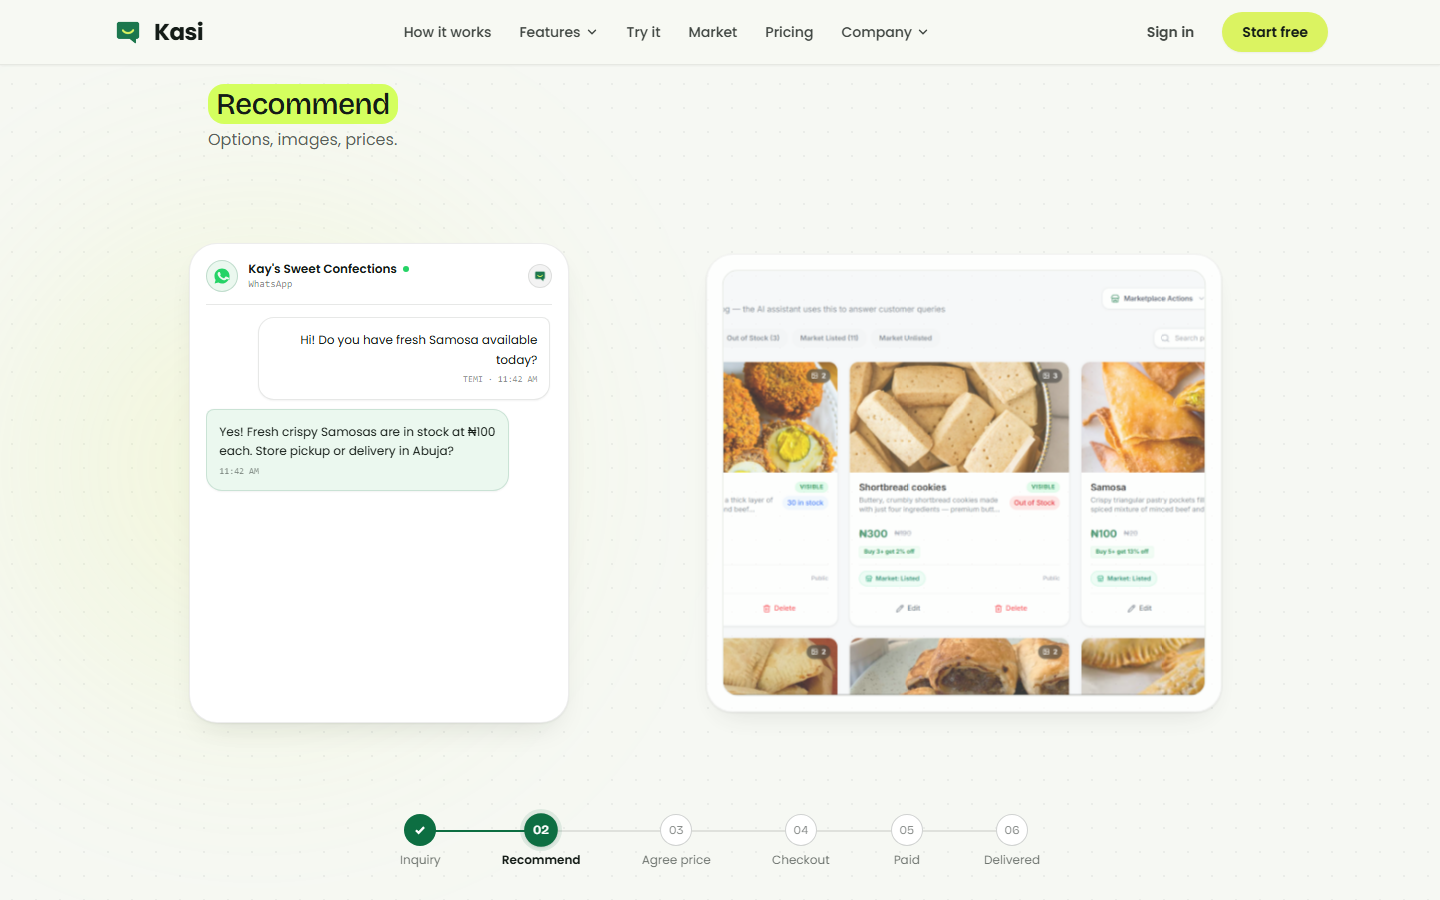
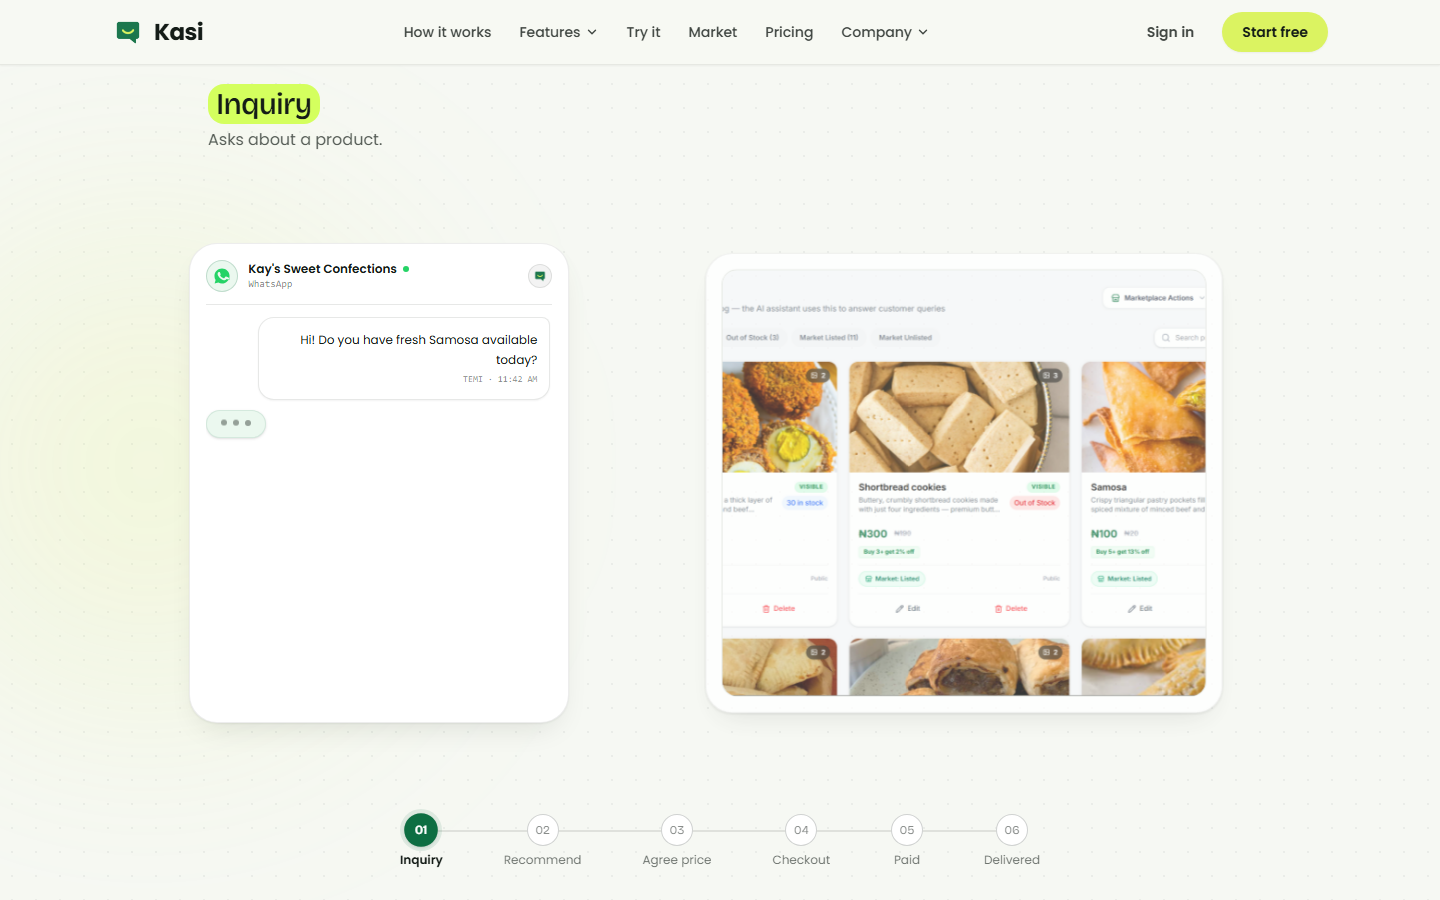
fix(ux): eliminate scroll hijacking, expand journey runway, and relax pacing

diff --git a/src/modules/Landing/components/journey/JourneyScene.jsx b/src/modules/Landing/components/journey/JourneyScene.jsx
@@ -1,5 +1,5 @@
 import React, { useState, useEffect, useId } from 'react';
-import { motion, useTransform, useMotionValueEvent } from 'framer-motion';
+import { motion, useTransform, useMotionValueEvent, AnimatePresence } from 'framer-motion';
 import { useJourneyProgress } from './useJourneyProgress';
 import { LANDING_STAGES, FULL_STAGES } from './stages';
 import { PhoneChat } from './PhoneChat';
@@ -28,10 +28,10 @@ export const JourneyScene = ({ variant = 'landing' }) => {
     prefersReducedMotion,
   });
 
-  // Track active stage index (only re-renders React when stage boundary crosses)
+  // Track active stage index (driven by the smoothed spring progress for fluid harmony)
   const [activeStageIndex, setActiveStageIndex] = useState(0);
 
-  useMotionValueEvent(rawProgress, 'change', (latest) => {
+  useMotionValueEvent(progress, 'change', (latest) => {
     const stageIdx = stages.findIndex(
       (s) => latest >= s.range[0] && latest <= s.range[1]
     );
@@ -46,23 +46,23 @@ export const JourneyScene = ({ variant = 'landing' }) => {
   const phoneScale = useTransform(
     progress,
     [0, 0.45, 0.55, 0.8, 1],
-    [1, 1, 0.98, 0.94, 0.92]
+    [1, 1, 0.98, 0.95, 0.93]
   );
   const phoneDim = useTransform(
     progress,
     [0, 0.5, 0.75, 1],
-    [1, 1, 0.85, 0.75]
+    [1, 1, 0.88, 0.8]
   );
 
   const vendorScale = useTransform(
     progress,
     [0, 0.35, 0.65, 0.85, 1],
-    [0.94, 0.96, 1, 1.02, 1]
+    [0.95, 0.97, 1, 1.01, 1]
   );
   const vendorDim = useTransform(
     progress,
     [0, 0.3, 0.6, 1],
-    [0.65, 0.8, 1, 1]
+    [0.72, 0.85, 1, 1]
   );
 
   // Soft lime ambient tint blob that tracks active stage
@@ -84,7 +84,7 @@ export const JourneyScene = ({ variant = 'landing' }) => {
     <>
       <section
         ref={containerRef}
-        style={{ height: isFull ? '460vh' : '330vh' }}
+        style={{ height: isFull ? '780vh' : '540vh' }}
         className="relative w-full bg-[#F6F8F3] text-[#141C17]"
         aria-label={isFull ? 'Interactive Order Journey' : 'Kasi How It Works'}
       >
@@ -129,19 +129,29 @@ export const JourneyScene = ({ variant = 'landing' }) => {
           )}
 
           {/* Top Bar: Active Step Title with lime marker highlight + Spec Description */}
-          <header className="relative z-10 max-w-5xl mx-auto w-full flex flex-col items-center sm:items-start pt-1 text-center sm:text-left">
-            <h3 className="font-display text-2xl md:text-3xl font-medium text-[#141C17] tracking-tight">
-              <span className="bg-[#D4FF5E] px-2 py-0.5 rounded-md inline-block mr-2">
-                {activeStage.title}
-              </span>
-            </h3>
-            <p className="text-[#141C17]/70 text-sm md:text-base font-normal mt-1 max-w-md">
-              {activeStage.desc}
-            </p>
+          <header className="relative z-20 max-w-5xl mx-auto w-full flex flex-col items-center sm:items-start pt-1 text-center sm:text-left shrink-0">
+            <AnimatePresence mode="wait">
+              <motion.div
+                key={activeStage.id}
+                initial={{ opacity: 0, y: 6 }}
+                animate={{ opacity: 1, y: 0 }}
+                exit={{ opacity: 0, y: -6 }}
+                transition={{ duration: 0.3, ease: 'easeOut' }}
+              >
+                <h3 className="font-display text-2xl md:text-3xl font-medium text-[#141C17] tracking-tight">
+                  <span className="bg-[#D4FF5E] px-2 py-0.5 rounded-md inline-block mr-2">
+                    {activeStage.title}
+                  </span>
+                </h3>
+                <p className="text-[#141C17]/70 text-sm md:text-base font-normal mt-1 max-w-md">
+                  {activeStage.desc}
+                </p>
+              </motion.div>
+            </AnimatePresence>
           </header>
 
           {/* Center Stage: Split Screen (Customer Phone on Left, Vendor Dashboard on Right) */}
-          <main className="relative z-10 w-full max-w-6xl mx-auto flex-1 flex items-center justify-center my-auto min-h-0">
+          <main className="relative z-10 w-full max-w-6xl mx-auto flex-1 flex items-center justify-center my-auto min-h-0 overflow-visible py-2">
             {/* Desktop Dual-Surface Layout */}
             <div className="hidden lg:grid grid-cols-12 gap-8 items-center w-full px-2">
               {/* Left: Customer WhatsApp Phone */}
@@ -169,7 +179,7 @@ export const JourneyScene = ({ variant = 'landing' }) => {
               </motion.div>
             </div>
 
-            {/* Mobile Layout (One Surface at a time, perfectly centered at 390px) */}
+            {/* Mobile Layout (One Surface at a time, perfectly centered at 380px) */}
             <div className="lg:hidden w-full max-w-[380px] mx-auto flex justify-center">
               {activeStage.stepNumber <= (isFull ? 3 : 2) ? (
                 <PhoneChat
@@ -188,7 +198,7 @@ export const JourneyScene = ({ variant = 'landing' }) => {
           </main>
 
           {/* Bottom Rail: Slim progress rail with display font numbered nodes */}
-          <footer className="relative z-10 max-w-3xl mx-auto w-full flex flex-col items-center pb-2">
+          <footer className="relative z-20 max-w-3xl mx-auto w-full flex flex-col items-center pb-2 shrink-0">
             <StageRail
               stages={stages}
               activeStageIndex={activeStageIndex}

diff --git a/src/modules/Landing/components/journey/PhoneChat.jsx b/src/modules/Landing/components/journey/PhoneChat.jsx
@@ -12,10 +12,16 @@ export const PhoneChat = ({
   className = '',
 }) => {
   const script = JOURNEY_SCRIPT;
-  const messagesEndRef = useRef(null);
+  const chatScrollRef = useRef(null);
 
+  // Internal scroll only - NEVER call window scrollIntoView
   useEffect(() => {
-    messagesEndRef.current?.scrollIntoView({ behavior: 'smooth' });
+    if (chatScrollRef.current) {
+      chatScrollRef.current.scrollTo({
+        top: chatScrollRef.current.scrollHeight,
+        behavior: 'smooth',
+      });
+    }
   }, [stageNumber]);
 
   return (
@@ -54,7 +60,10 @@ export const PhoneChat = ({
       </div>
 
       {/* Message Stream */}
-      <div className="flex-1 py-3 space-y-2.5 overflow-y-auto min-h-0 flex flex-col justify-start pr-0.5">
+      <div
+        ref={chatScrollRef}
+        className="flex-1 py-3 space-y-2.5 overflow-y-auto min-h-0 flex flex-col justify-start pr-0.5"
+      >
         {/* Customer initial inquiry */}
         <div className="self-end max-w-[85%] bg-white border border-[#141C17]/10 rounded-2xl rounded-tr-sm p-3 text-right shadow-xs">
           <p className="text-xs text-[#141C17] leading-relaxed font-normal">
@@ -79,6 +88,7 @@ export const PhoneChat = ({
           <motion.div
             initial={{ opacity: 0, y: 10 }}
             animate={{ opacity: 1, y: 0 }}
+            transition={{ duration: 0.35, ease: [0.25, 0.1, 0.25, 1.0] }}
             className="self-start max-w-[88%] bg-[#EBF8EF] border border-[#0D6E42]/15 rounded-2xl rounded-tl-sm p-3 text-left shadow-xs"
           >
             <p className="text-xs text-[#141C17] leading-relaxed">
@@ -98,6 +108,7 @@ export const PhoneChat = ({
             <motion.div
               initial={{ opacity: 0, y: 10 }}
               animate={{ opacity: 1, y: 0 }}
+              transition={{ duration: 0.35, ease: [0.25, 0.1, 0.25, 1.0] }}
               className="self-end max-w-[85%] bg-white border border-[#141C17]/10 rounded-2xl rounded-tr-sm p-3 text-right shadow-xs"
             >
               <p className="text-xs text-[#141C17] leading-relaxed font-normal">
@@ -111,6 +122,7 @@ export const PhoneChat = ({
             <motion.div
               initial={{ opacity: 0, y: 10 }}
               animate={{ opacity: 1, y: 0 }}
+              transition={{ duration: 0.35, ease: [0.25, 0.1, 0.25, 1.0] }}
               className="self-start max-w-[88%] bg-[#EBF8EF] border border-[#0D6E42]/15 rounded-2xl rounded-tl-sm p-3 text-left shadow-xs space-y-2"
             >
               <p className="text-xs text-[#141C17] leading-relaxed">
@@ -129,6 +141,7 @@ export const PhoneChat = ({
           <motion.div
             initial={{ opacity: 0, y: 10 }}
             animate={{ opacity: 1, y: 0 }}
+            transition={{ duration: 0.35, ease: [0.25, 0.1, 0.25, 1.0] }}
             className="space-y-2"
           >
             <LocationPin
@@ -155,6 +168,7 @@ export const PhoneChat = ({
           <motion.div
             initial={{ opacity: 0, y: 10 }}
             animate={{ opacity: 1, y: 0 }}
+            transition={{ duration: 0.35, ease: [0.25, 0.1, 0.25, 1.0] }}
             className="self-start max-w-[88%] bg-[#EBF8EF] border border-[#0D6E42]/15 rounded-2xl rounded-tl-sm p-3 text-left shadow-xs"
           >
             <p className="text-xs text-[#141C17] leading-relaxed font-medium">
@@ -171,6 +185,7 @@ export const PhoneChat = ({
           <motion.div
             initial={{ opacity: 0, y: 10 }}
             animate={{ opacity: 1, y: 0 }}
+            transition={{ duration: 0.35, ease: [0.25, 0.1, 0.25, 1.0] }}
             className="space-y-2"
           >
             <div className="self-start max-w-[88%] bg-[#EBF8EF] border border-[#0D6E42]/15 rounded-2xl rounded-tl-sm p-3 text-left shadow-xs">
@@ -197,6 +212,7 @@ export const PhoneChat = ({
           <motion.div
             initial={{ opacity: 0, y: 10 }}
             animate={{ opacity: 1, y: 0 }}
+            transition={{ duration: 0.35, ease: [0.25, 0.1, 0.25, 1.0] }}
             className="self-start max-w-[88%] bg-[#EBF8EF] border border-[#0D6E42]/15 rounded-2xl rounded-tl-sm p-3 text-left shadow-xs"
           >
             <p className="text-xs text-[#0D6E42] font-semibold">
@@ -207,8 +223,6 @@ export const PhoneChat = ({
             </span>
           </motion.div>
         )}
-
-        <div ref={messagesEndRef} />
       </div>
     </div>
   );

diff --git a/src/modules/Landing/components/home/PillarsSection.jsx b/src/modules/Landing/components/home/PillarsSection.jsx
@@ -57,13 +57,29 @@ export function PillarsSection() {
               className="bg-white rounded-[22px] border border-[#141C17]/10 p-6 sm:p-7 shadow-xs flex flex-col justify-between overflow-hidden group hover:border-[#141C17]/20 transition-colors"
             >
               <div>
-                {/* Top: Designed Human/Vendor Placeholder */}
-                <div className="w-full h-44 rounded-xl overflow-hidden mb-6 border border-[#141C17]/8 shadow-inner">
-                  <DesignedPlaceholder
-                    aspect="16/9"
-                    caption={pillar.placeholderCaption}
-                    className="w-full h-full"
-                  />
+                {/* Top: Real Vendor Photo or Designed Placeholder */}
+                <div className="w-full h-44 rounded-xl overflow-hidden mb-6 border border-[#141C17]/8 shadow-inner bg-[#F6F8F3] relative">
+                  {pillar.photo ? (
+                    <img
+                      src={pillar.photo}
+                      alt={pillar.placeholderCaption || `${labelTitle} vendor in shop`}
+                      className="w-full h-full object-cover group-hover:scale-102 transition-transform duration-500"
+                      loading="lazy"
+                      onError={(e) => {
+                        e.currentTarget.style.display = 'none';
+                        if (e.currentTarget.nextElementSibling) {
+                          e.currentTarget.nextElementSibling.style.display = 'block';
+                        }
+                      }}
+                    />
+                  ) : null}
+                  <div style={{ display: pillar.photo ? 'none' : 'block' }} className="w-full h-full">
+                    <DesignedPlaceholder
+                      aspect="16/9"
+                      caption={pillar.placeholderCaption}
+                      className="w-full h-full"
+                    />
+                  </div>
                 </div>
 
                 {/* Phosphor duotone icon bare over offset lime disc */}

diff --git a/src/content/home.ts b/src/content/home.ts
@@ -40,6 +40,7 @@ export const HOME_COPY = {
         cta: "Sales Engine",
         href: "/features/sales-engine",
         screenshot: "/images/chats.png",
+        photo: "/images/One assistant. The whole shop/fashion vendor.jpeg",
         placeholderCaption: "Nigerian female entrepreneur packing fashion orders",
       },
       {
@@ -48,6 +49,7 @@ export const HOME_COPY = {
         cta: "Fulfilment",
         href: "/features/fulfilment",
         screenshot: "/images/fulfilment & orders.png",
+        photo: "/images/One assistant. The whole shop/retail vendor handing off.jpeg",
         placeholderCaption: "Retail vendor handing off orders for rider dispatch",
       },
       {
@@ -56,6 +58,7 @@ export const HOME_COPY = {
         cta: "Customers & Analytics",
         href: "/features/customers",
         screenshot: "/images/analytics.png",
+        photo: "/images/One assistant. The whole shop/store owner analytics.jpeg",
         placeholderCaption: "Store owner reviewing analytics on phone",
       },
     ],

diff --git a/src/modules/Landing/components/home/ChatStage.jsx b/src/modules/Landing/components/home/ChatStage.jsx
@@ -66,18 +66,18 @@ export function ChatStage({ activeChannel, onChannelChange, isPausedExternal = f
 
     const stepSchedule = [
       { step: 0, delay: 0 },
-      { step: 1, delay: 500 },
-      { step: 2, delay: 1200 },
-      { step: 3, delay: 1800 },
-      { step: 4, delay: 2400 },
-      { step: 5, delay: 3200 },
-      { step: 6, delay: 3800 },
-      { step: 7, delay: 4500 },
-      { step: 8, delay: 5100 },
-      { step: 9, delay: 5800 },
+      { step: 1, delay: 600 },
+      { step: 2, delay: 1500 },
+      { step: 3, delay: 3400 },
+      { step: 4, delay: 4600 },
+      { step: 5, delay: 7000 },
+      { step: 6, delay: 8000 },
+      { step: 7, delay: 9400 },
+      { step: 8, delay: 10400 },
+      { step: 9, delay: 11000 },
     ];
 
-    const cycleDuration = 7600;
+    const cycleDuration = 13000;
     let elapsed = 0;
     const intervalMs = 50;
 

diff --git a/src/modules/Landing/components/journey/useJourneyProgress.js b/src/modules/Landing/components/journey/useJourneyProgress.js
@@ -24,12 +24,12 @@ export function useJourneyProgress({ prefersReducedMotion = false } = {}) {
     }
   }, []);
 
-  // Smooth spring for high-power devices; direct linear MotionValue for low-power to reduce CPU cycles
+  // Velvety, smooth spring with controlled damping for an unhurried, luxurious scroll feel
   const smoothProgress = useSpring(scrollYProgress, {
-    stiffness: 180,
+    stiffness: 75,
     damping: 24,
-    mass: 0.2,
-    restDelta: 0.001,
+    mass: 0.5,
+    restDelta: 0.0005,
   });
 
   const activeProgress = isLowPower || prefersReducedMotion ? scrollYProgress : smoothProgress;

diff --git a/scripts/check-copy.ts b/scripts/check-copy.ts
@@ -156,6 +156,9 @@ const ALLOWLISTED_COPY = new Set([
   '/images/products & store.png',
   '/images/sales & finance.png',
   '/images/platforms.png',
+  '/images/One assistant. The whole shop/fashion vendor.jpeg',
+  '/images/One assistant. The whole shop/retail vendor handing off.jpeg',
+  '/images/One assistant. The whole shop/store owner analytics.jpeg',
   // Testimonial vendor attributes (from real Nigerian merchants per spec 2.7 directive)
   'Folake Adebayo',
   'Lush Looks',
